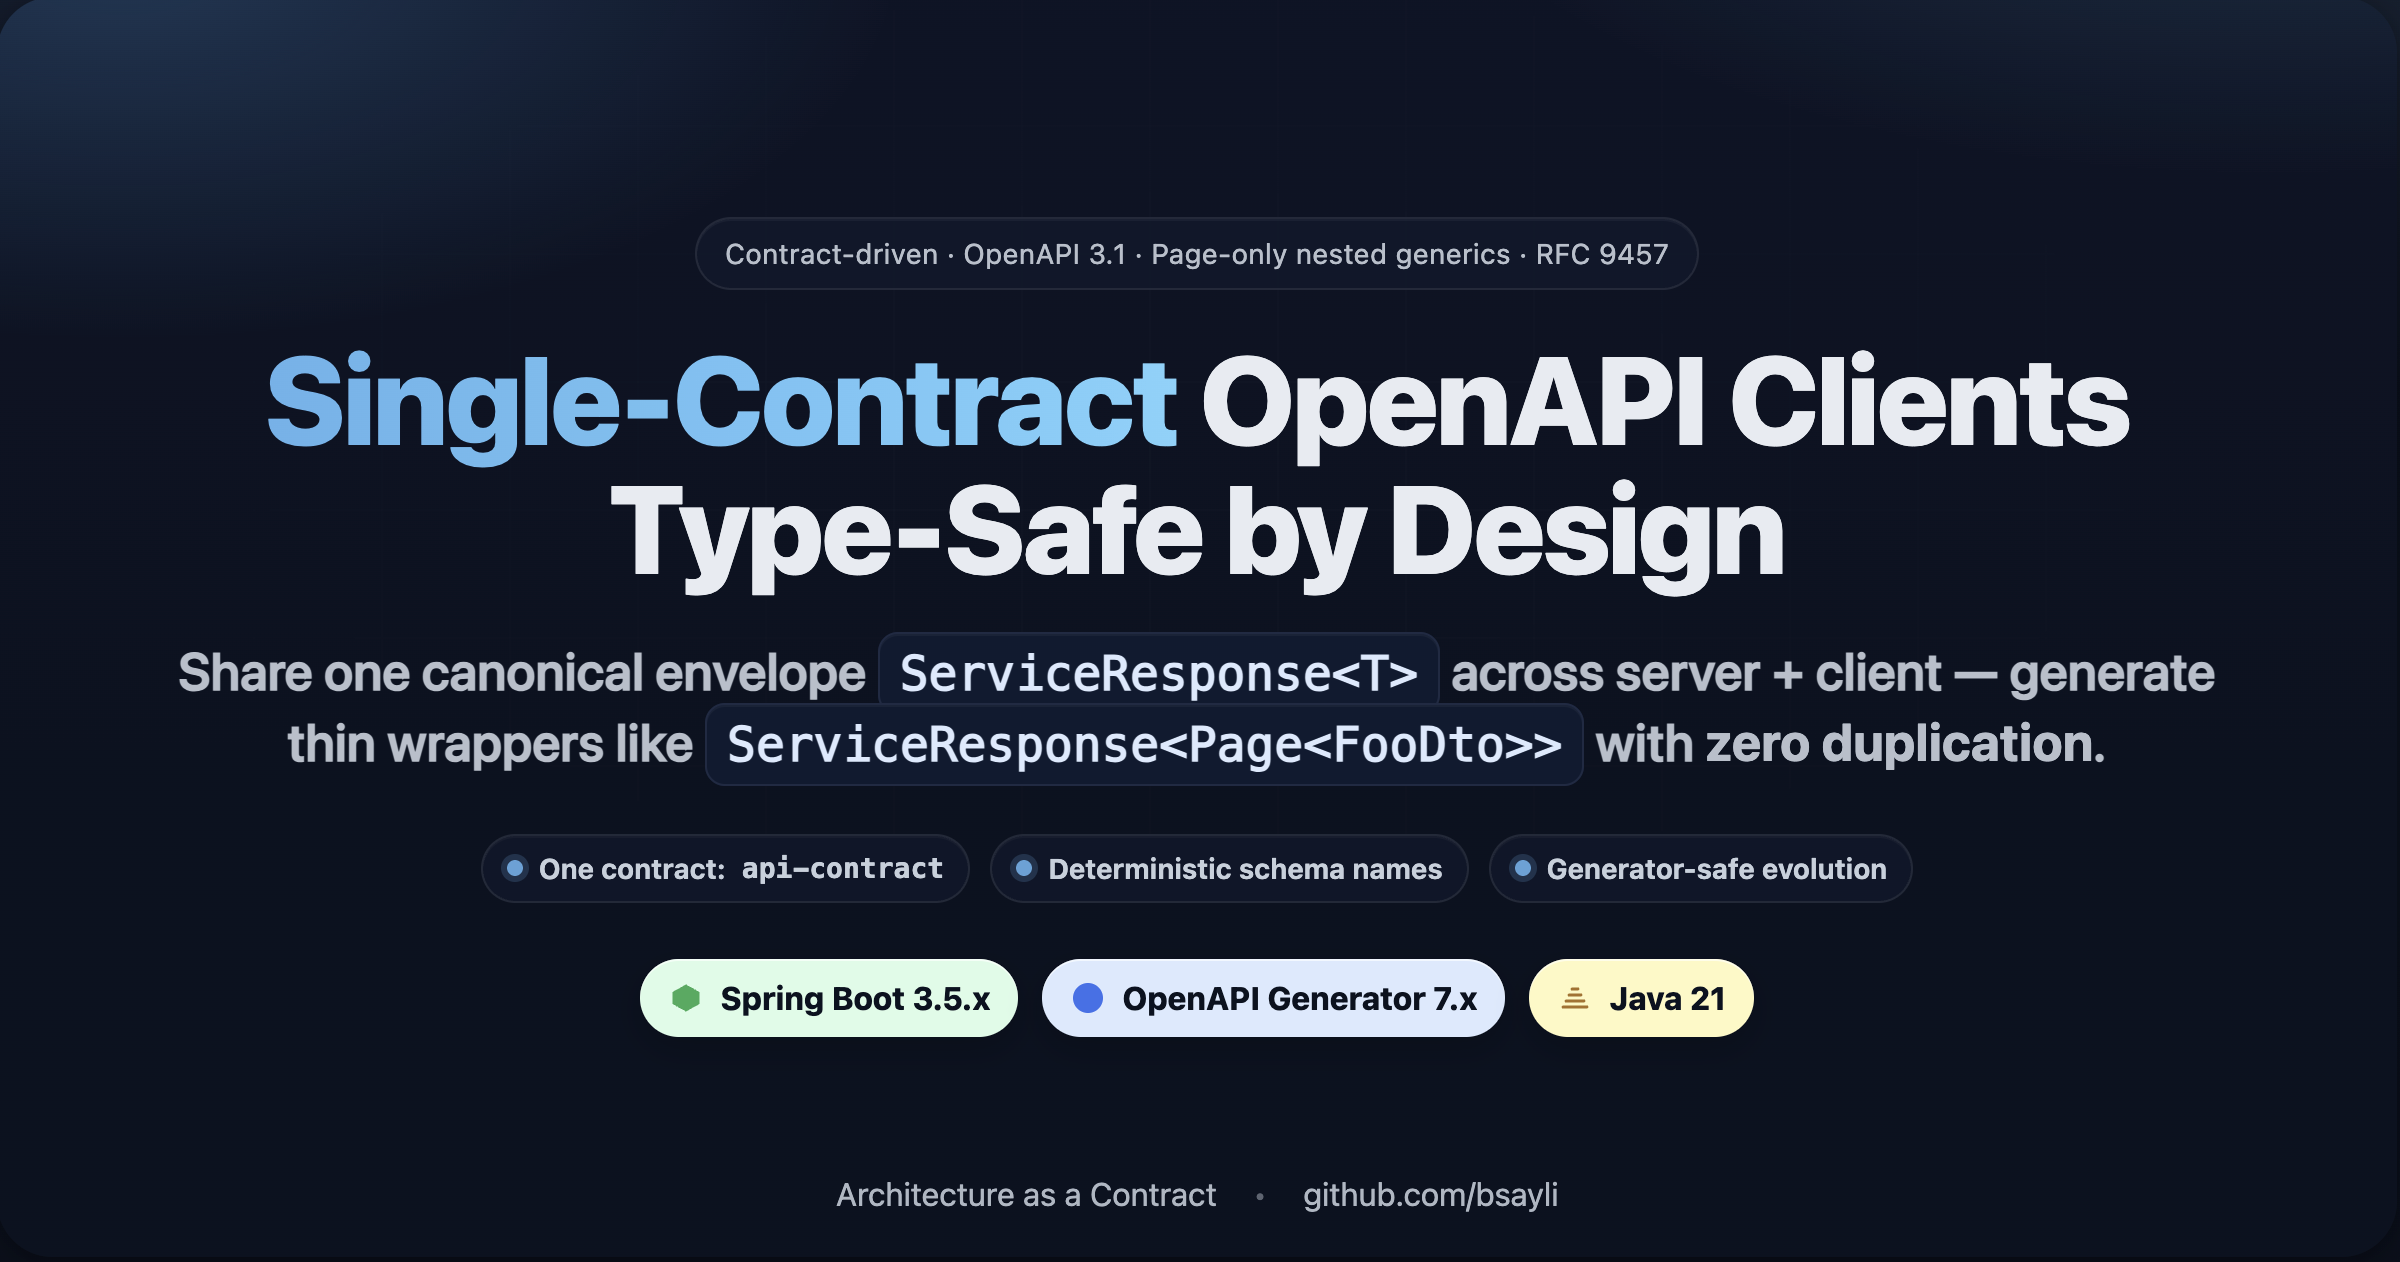
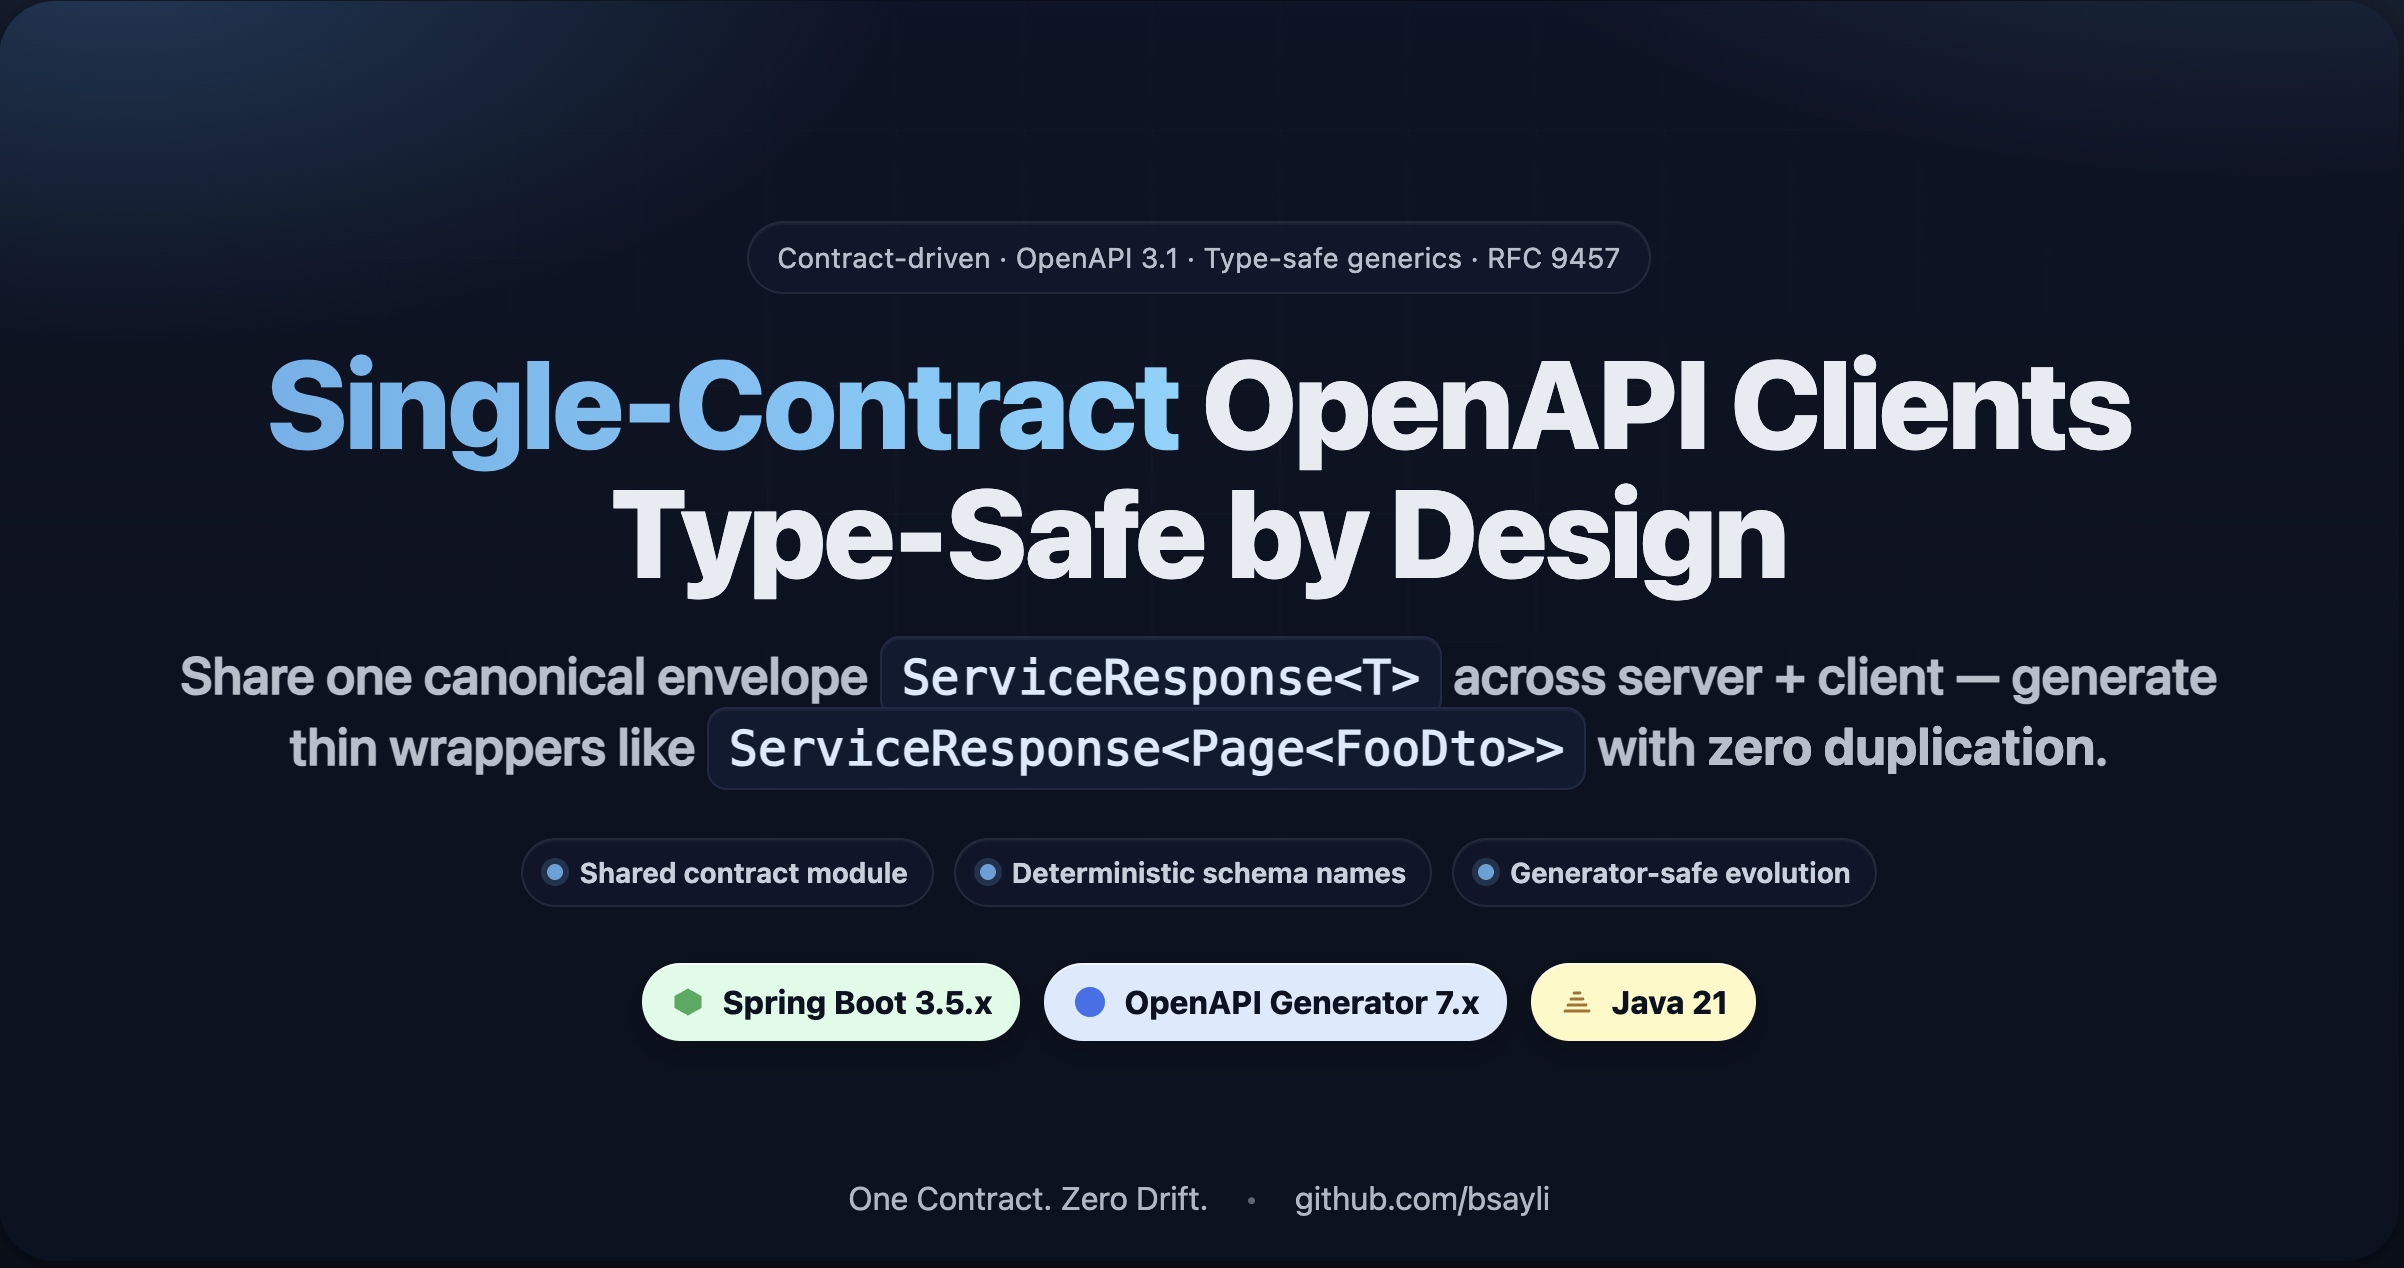
docs(build): align CI, docs, and cover with single-contract generics
- Switch CI (build.yml, codeql.yml) to aggregator-first build
- Refresh root README.md and GitHub Pages index.md
- Refine client-side adoption POM documentation
- Update cover.html and cover.png to reflect single canonical API contract

diff --git a/docs/images/cover/cover.html b/docs/images/cover/cover.html
@@ -144,7 +144,7 @@
   <div class="grid" aria-hidden="true"></div>
 
   <div class="content">
-    <span class="eyebrow">Contract-driven · OpenAPI 3.1 · Page-only nested generics · RFC 9457</span>
+    <span class="eyebrow">Contract-driven · OpenAPI 3.1 · Type-safe generics · RFC 9457</span>
 
     <h1 class="title">
       <span class="accent">Single-Contract</span> OpenAPI Clients<br />
@@ -160,7 +160,7 @@
     </p>
 
     <div class="pills" aria-label="Guarantees">
-      <span class="pill"><span class="dot"></span>One contract: <code style="padding:0;border:none;background:none;color:inherit">api-contract</code></span>
+      <span class="pill"><span class="dot"></span>Shared contract module</span>
       <span class="pill"><span class="dot"></span>Deterministic schema names</span>
       <span class="pill"><span class="dot"></span>Generator-safe evolution</span>
     </div>
@@ -181,8 +181,8 @@
     </div>
   </div>
 
-  <div class="footer" aria-label="Links">
-    <span>Architecture as a Contract</span>
+  <div class="footer">
+    <span>One Contract. Zero Drift.</span>
     <span class="sep">•</span>
     <span>github.com/bsayli</span>
   </div>

diff --git a/docs/index.md b/docs/index.md
@@ -7,20 +7,16 @@ canonical_url: https://medium.com/@baris.sayli/type-safe-generic-api-responses-w
 
 # Spring Boot OpenAPI Generics — Adoption Hub
 
-> A production‑grade blueprint for **contract‑driven, generics‑aware API boundaries** built with Spring Boot, Springdoc, and OpenAPI Generator.
+> A production-grade **reference architecture** for **contract-driven, generics-aware API boundaries** built with Spring Boot, Springdoc, and OpenAPI Generator.
 
 Welcome 👋
 This documentation describes a **domain‑agnostic, single‑contract architecture** where **both server and client** share the same canonical success envelope:
 
 > **Canonical success envelope:** `ServiceResponse<T>`
 
-<div class="callout">
-
-- **No duplicated envelopes**
-- **No parallel client contracts**
-- **No schema drift**
-
-</div>
+* No duplicated envelopes
+* No parallel client contracts
+* No schema drift
 
 The result is an **end‑to‑end type‑safe API boundary** with deterministic OpenAPI output, explicit generic rules, and **RFC 9457‑compliant error handling**.
 
@@ -28,13 +24,12 @@ The result is an **end‑to‑end type‑safe API boundary** with deterministic 
 
 ## 📑 Table of Contents
 
-- [What This Blueprint Solves](#-what-this-blueprint-solves)
+- [What This Pattern Solves](#-what-this-pattern-solves)
 - [Canonical Contract (Single Source of Truth)](#-canonical-contract-single-source-of-truth)
 - [High-Level Architecture](#-highlevel-architecture)
 - [Thin Wrapper Generation](#-thin-wrapper-generation-conceptual)
 - [Error Handling (RFC 9457)](#-error-handling-rfc-9457-first)
 - [Getting Started](#-getting-started-conceptual-flow)
-- [Learn More](#-learn-more)
 - [Toolchain](#-toolchain-reference)
 - [Adoption Guides](#-adoption-guides)
 - [Design Guarantees](#-design-guarantees)
@@ -43,7 +38,7 @@ The result is an **end‑to‑end type‑safe API boundary** with deterministic 
 ---
 
 
-## 💡 What This Blueprint Solves
+## 💡 What This Pattern Solves
 
 Modern HTTP APIs almost always wrap responses:
 
@@ -58,7 +53,7 @@ Yet most OpenAPI‑based workflows still suffer from fundamental issues:
 * nested containers produce unstable or ambiguous schemas
 * client contracts silently diverge from server contracts
 
-This blueprint solves these problems by enforcing **one shared contract** and making OpenAPI generation **generics‑aware by design**, not by convention.
+This pattern solves these problems by enforcing **one shared contract** and making OpenAPI generation **generics‑aware by design**, not by convention.
 
 ---
 
@@ -170,13 +165,6 @@ Concrete setup steps are covered in the adoption guides below.
 
 ---
 
-## 📚 Learn More
-
-* [Server-Side Adoption](adoption/server-side-adoption.md)
-* [Client-Side Adoption](adoption/client-side-adoption.md)
-
----
-
 ## 📦 Toolchain (Reference)
 
 | Component         | Role                    |
@@ -193,7 +181,10 @@ Exact versions are pinned in the respective adoption guides to ensure reproducib
 
 ## 📚 Adoption Guides
 
-Use these guides to integrate the blueprint step‑by‑step:
+- **[Server-Side Adoption](adoption/server-side-adoption.md)** — Publish a deterministic, generics-aware OpenAPI 3.1 contract.
+- **[Client-Side Adoption](adoption/client-side-adoption.md)** — Configure Maven + OpenAPI Generator + Mustache overlays.
+
+Use these guides to integrate the pattern step‑by‑step:
 
 * **Server‑Side Adoption**
   How to expose `ServiceResponse<T>` and publish a deterministic, generics‑aware OpenAPI contract.
@@ -210,7 +201,7 @@ Each guide is **domain‑agnostic** and focuses on architectural rules rather th
 
 ## 🎯 Design Guarantees
 
-This blueprint guarantees:
+This pattern guarantees:
 
 * **One response contract** across server and client
 * **Zero duplicated envelopes**
@@ -227,12 +218,8 @@ It is a **reference architecture** for teams who care about API correctness, lon
 
 ## 🔗 References & External Links
 
-<div class="callout learn-more">
-  <ul>
-    <li>🌐 <a href="https://github.com/bsayli/spring-boot-openapi-generics-clients" target="_blank" rel="noopener">GitHub Repository</a></li>
-    <li>📘 <a href="https://medium.com/@baris.sayli/type-safe-generic-api-responses-with-spring-boot-3-4-openapi-generator-and-custom-templates-ccd93405fb04" target="_blank" rel="noopener">Medium — We Made OpenAPI Generator Think in Generics</a></li>
-  </ul>
-</div>
+- 🌐 **GitHub Repository** — [spring-boot-openapi-generics-clients](https://github.com/bsayli/spring-boot-openapi-generics-clients)
+- 📘 **Medium** — [We Made OpenAPI Generator Think in Generics](https://medium.com/@baris.sayli/type-safe-generic-api-responses-with-spring-boot-3-4-openapi-generator-and-custom-templates-ccd93405fb04)
 
 ---
 

diff --git a/README.md b/README.md
@@ -38,7 +38,7 @@ The result is a **deterministic, type‑safe API boundary** with **Page‑aware 
 * 💡 [The Core Idea](#-the-core-idea)
 * 🧱 [Canonical Contract](#-canonical-contract)
 * 🏗 [Architecture Overview](#-architecture-overview)
-* 🔎 [Executable Proof: Generated Clients](#-executable-proof-generated-clients)
+* 🔎 [Proof: Generated Client Models (Before/After)](#-proof-generated-client-models-beforeafter)
 * 🧩 [Example Responses](#-example-responses)
 * 🧠 [Design Guarantees](#-design-guarantees)
 * 📘 [Adoption Guides](#-adoption-guides)
@@ -272,7 +272,7 @@ This restriction is **intentional** — it guarantees deterministic schema names
 
 ---
 
-## 🔎 Executable Proof: Generated Clients
+## 🔎 Proof: Generated Client Models (Before/After)
 
 **Before (duplicated models):**
 
@@ -327,7 +327,7 @@ No duplicated envelope. No lost generics.
 
 ## 🧠 Design Guarantees
 
-This blueprint guarantees:
+This architecture guarantees:
 
 * **One response contract** across server and client
 * **No duplicated envelopes**
@@ -346,20 +346,20 @@ It is a **reference architecture**.
 
 Step-by-step integration guides live under [`docs/adoption`](docs/adoption):
 
-* **[Server-Side Adoption](docs/adoption/server-side-adoption.md)** — publishing a deterministic, generics-aware OpenAPI 3.1 contract
-* **[Client-Side Adoption](docs/adoption/client-side-adoption.md)** — Maven, OpenAPI Generator, and Mustache template wiring (build-time setup only)
-
+- **[Server-Side Adoption](docs/adoption/server-side-adoption.md)** — Publish a deterministic, generics-aware OpenAPI 3.1 contract.
+- **[Client-Side Adoption](docs/adoption/client-side-adoption.md)** — Configure Maven, OpenAPI Generator, and Mustache templates (build-time setup only).
 ---
 
 ## 🔗 References & External Links
 
-<div class="callout learn-more">
-  <ul>
-    <li>🌐 <a href="https://github.com/bsayli/spring-boot-openapi-generics-clients" target="_blank" rel="noopener">GitHub Repository</a></li>
-    <li>📘 <a href="https://medium.com/@baris.sayli/type-safe-generic-api-responses-with-spring-boot-3-4-openapi-generator-and-custom-templates-ccd93405fb04" target="_blank" rel="noopener">Medium — We Made OpenAPI Generator Think in Generics</a></li>
-    <li>📄 <a href="https://www.rfc-editor.org/rfc/rfc9457" target="_blank" rel="noopener">RFC 9457 — Problem Details for HTTP APIs</a></li>
-  </ul>
-</div>
+- 📘 **Adoption Guide (GitHub Pages)**  
+  [Spring Boot OpenAPI Generics — Adoption Guide](https://bsayli.github.io/spring-boot-openapi-generics-clients/)
+
+- ✍ **Medium Article**  
+  [We Made OpenAPI Generator Think in Generics](https://medium.com/@baris.sayli/type-safe-generic-api-responses-with-spring-boot-3-4-openapi-generator-and-custom-templates-ccd93405fb04)
+
+- 📄 **RFC 9457**  
+  [Problem Details for HTTP APIs](https://www.rfc-editor.org/rfc/rfc9457)
 
 ---
 

diff --git a/docs/adoption/client-side-adoption-pom.md b/docs/adoption/client-side-adoption-pom.md
@@ -328,7 +328,12 @@ Pin versions for deterministic generation and reproducible builds.
       </executions>
     </plugin>
 
-    <!-- 5) Keep generated sources tidy (optional but recommended) -->
+    <!--
+      5) Keep generated sources deterministic and clean.
+         This step removes unused imports left behind when certain DTOs
+         are intentionally ignored in .openapi-generator-ignore
+         (e.g. Meta, Page, ServiceResponse).
+    -->
     <plugin>
       <groupId>com.diffplug.spotless</groupId>
       <artifactId>spotless-maven-plugin</artifactId>
@@ -362,13 +367,13 @@ Pin versions for deterministic generation and reproducible builds.
 
 ## 4) Why These Plugins Exist (and Why This Order Matters)
 
-| Step | Plugin                           | Why it exists                                                                |
-| ---- | -------------------------------- | ---------------------------------------------------------------------------- |
-| 1    | `maven-dependency-plugin`        | Extract upstream templates from the generator JAR (baseline).                |
-| 2    | `maven-resources-plugin`         | Copy upstream → overlay local Mustache templates (your delta stays minimal). |
-| 3    | `openapi-generator-maven-plugin` | Generate client sources with your overlays applied.                          |
-| 4    | `build-helper-maven-plugin`      | Compile generated sources without IDE hacks.                                 |
-| 5    | `spotless-maven-plugin`          | Optional hygiene: remove unused imports in generated code.                   |
+| Step | Plugin                           | Purpose                                                                   |
+| ---- | -------------------------------- |---------------------------------------------------------------------------|
+| 1    | `maven-dependency-plugin`        | Extract upstream generator templates as a stable baseline.                |
+| 2    | `maven-resources-plugin`         | Overlay local Mustache templates on top of upstream ones.                 |
+| 3    | `openapi-generator-maven-plugin` | Generate client sources using the effective (merged) templates.           |
+| 4    | `build-helper-maven-plugin`      | Add generated sources to the build without IDE-specific hacks.            |
+| 5    | `spotless-maven-plugin`          | Remove unused imports from excluded DTOs to keep output clean and stable. |
 
 ---
 
